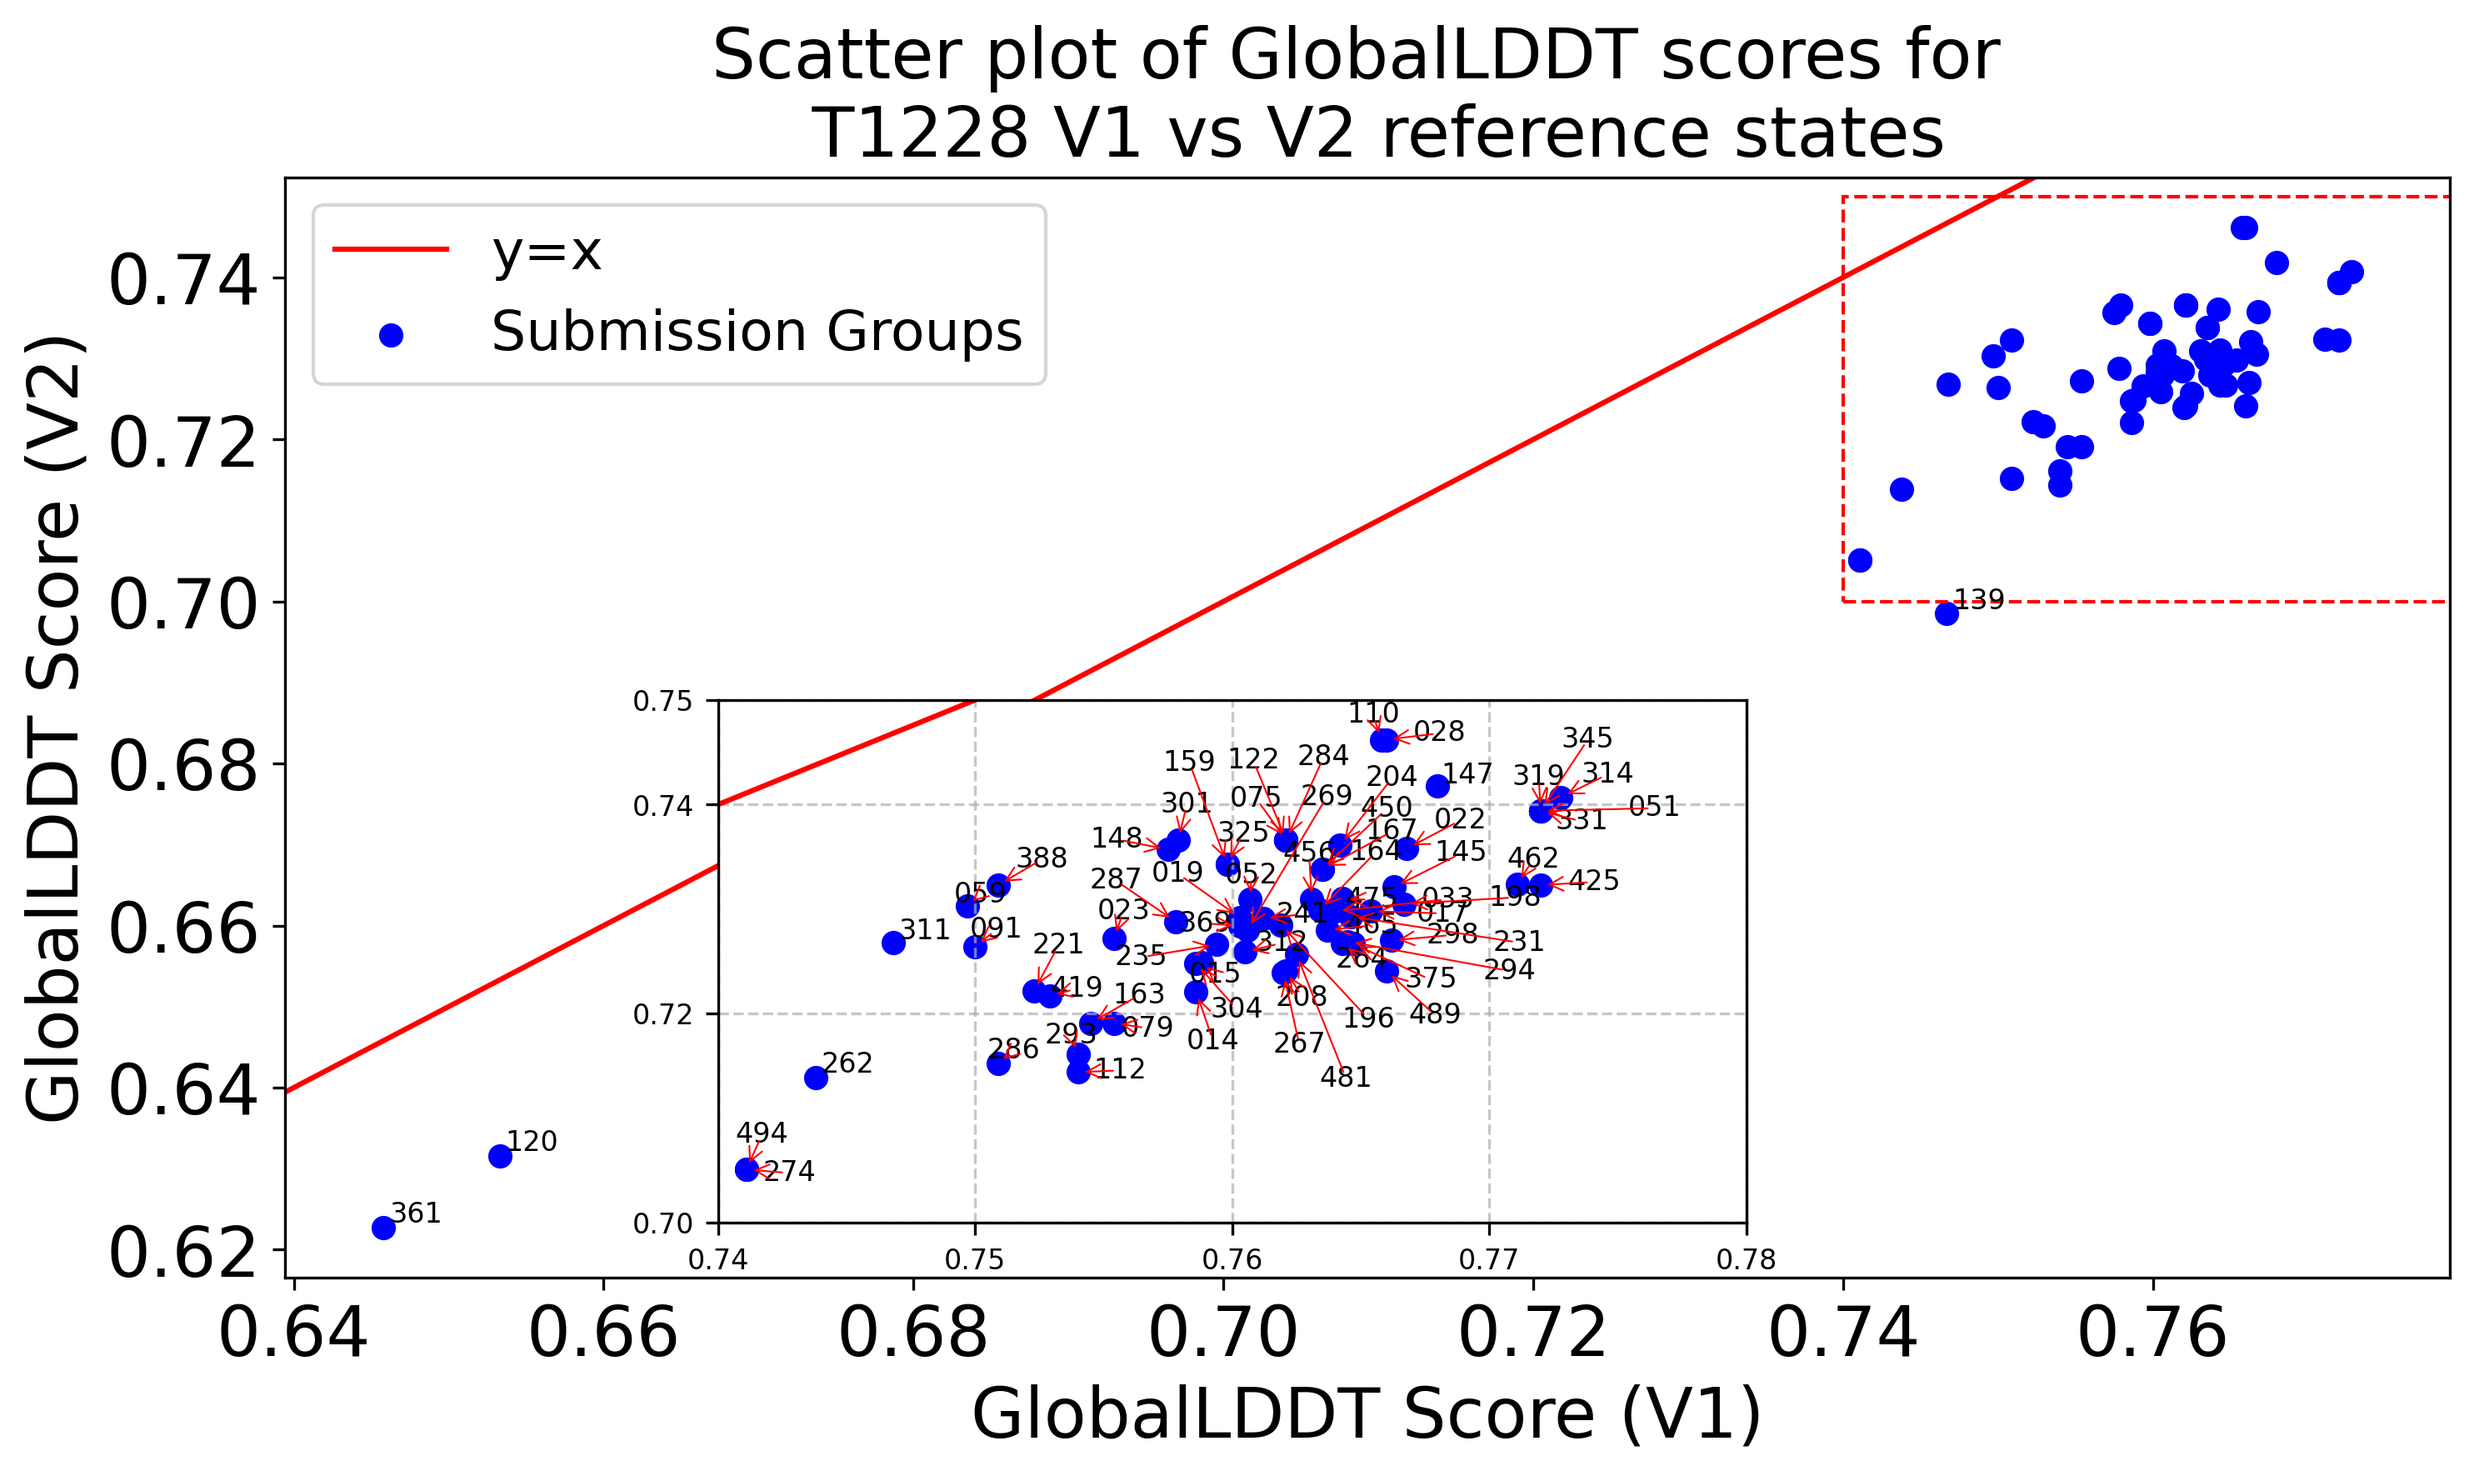
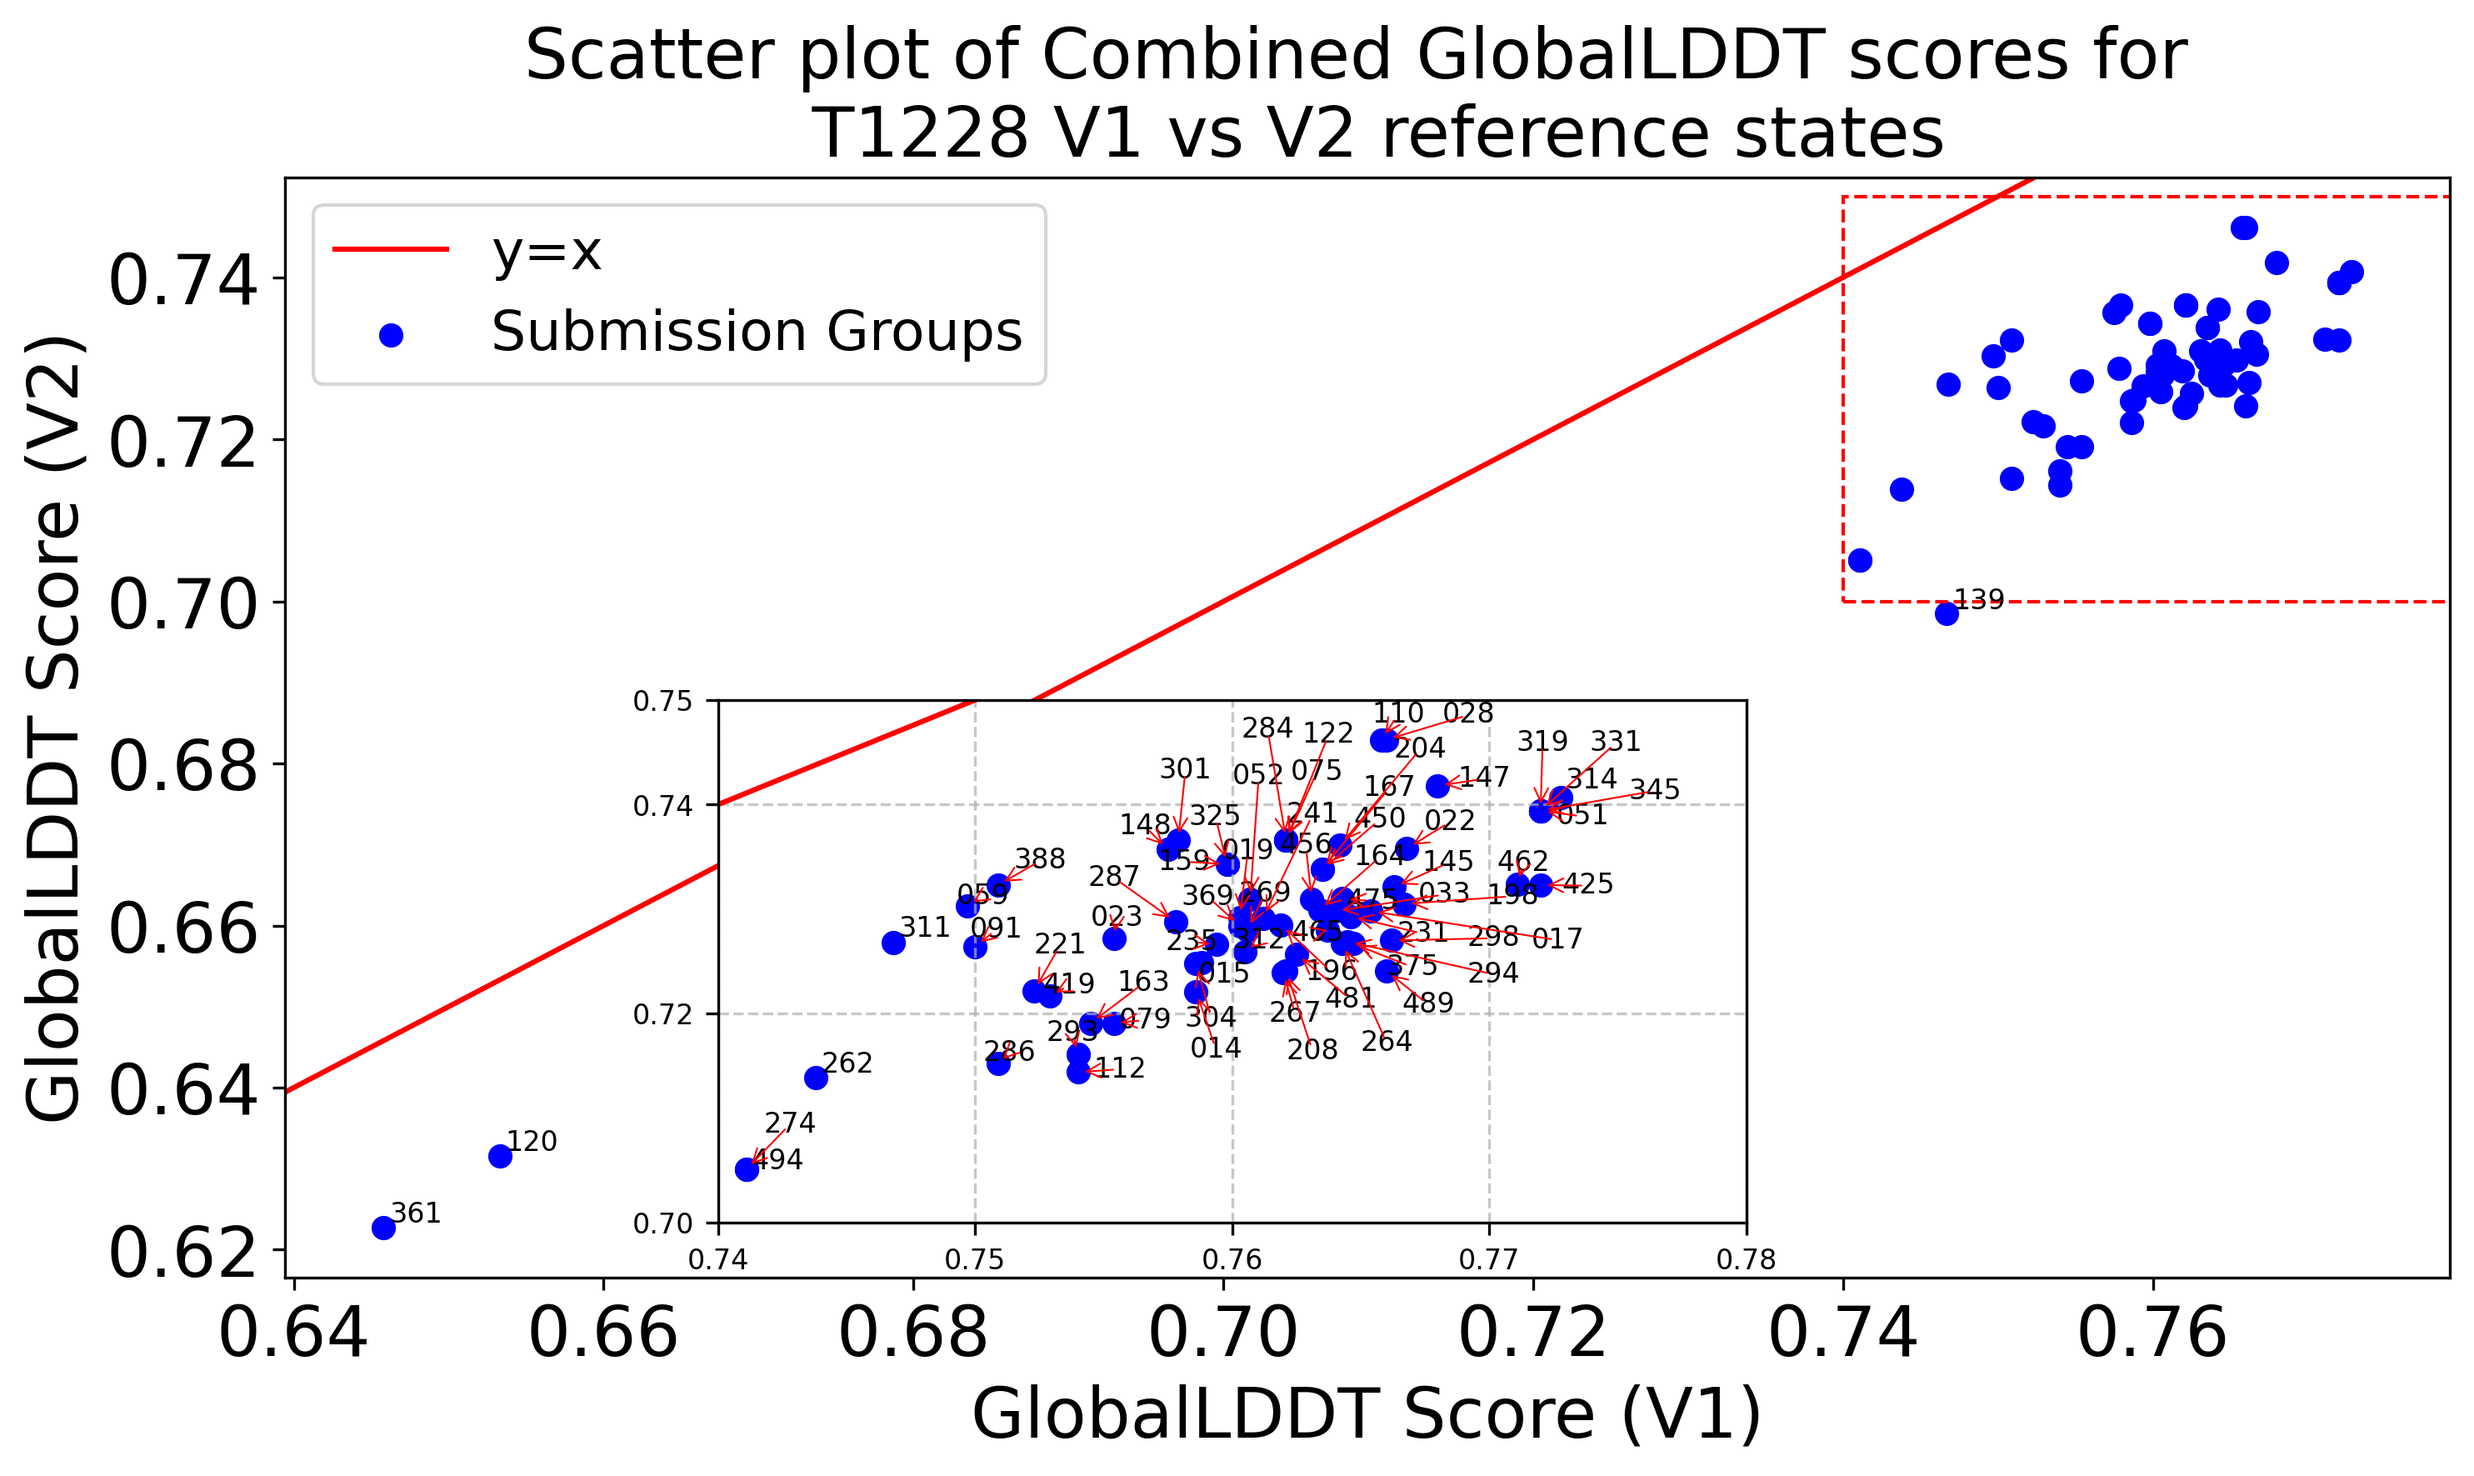
updated scatterplot titles and TM-score scatterplot titles and axis

diff --git a/process_two_state_score.py b/process_two_state_score.py
@@ -528,12 +528,23 @@ def assessment(ID, score):
         'x': combined_df[f"Best_v1_ref"],
         'y': combined_df[f"Best_v2_ref"],
         'group_labels': combined_df['Group'],
-        'xlabel': f'{score} Score (V1)',
-        'ylabel': f'{score} Score (V2)',
-        'title': f'Scatter plot of {score} scores for \n {ID} V1 vs V2 reference states',
         'save_path': f'./PLOTS/{ID}_{score}_scatter_plot.png',
         'score': score
     })
+
+    if score == 'TMscore':
+        kwargs.update({
+            'xlabel': f'TM-score (V1)',
+            'ylabel': f'TM-score (V2)',
+            'title': f'Scatter plot of Combined TM-score for \n {ID} V1 vs V2 reference states',
+        })
+    else:
+        kwargs.update({
+            'xlabel': f'{score} Score (V1)',
+            'ylabel': f'{score} Score (V2)',
+            'title': f'Scatter plot of Combined {score} scores for \n {ID} V1 vs V2 reference states',
+        })
+
 
     # Special cases for insets and axis limits
     if ID == "T1228" and score == 'GlobalLDDT':
